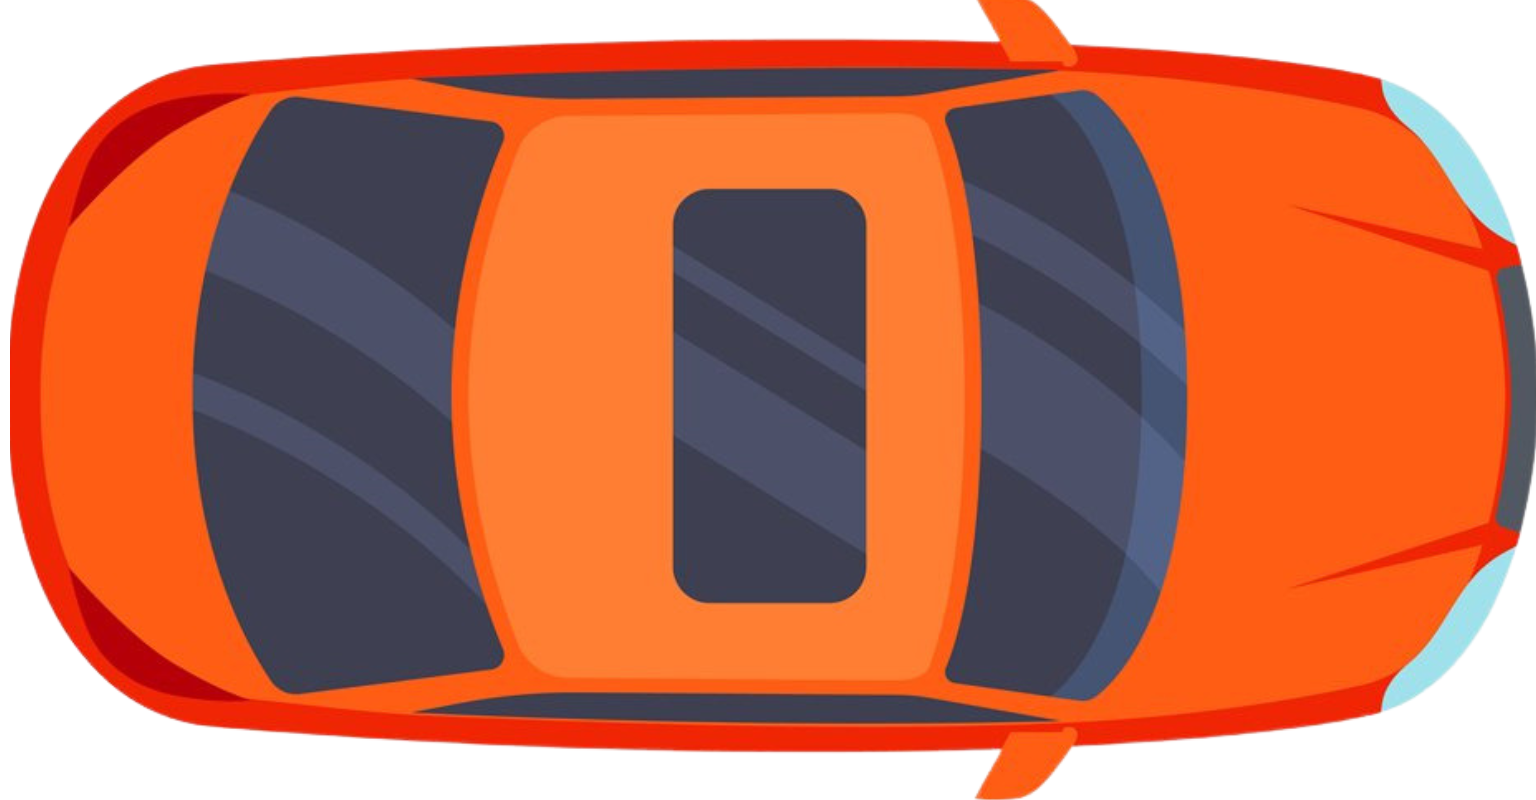
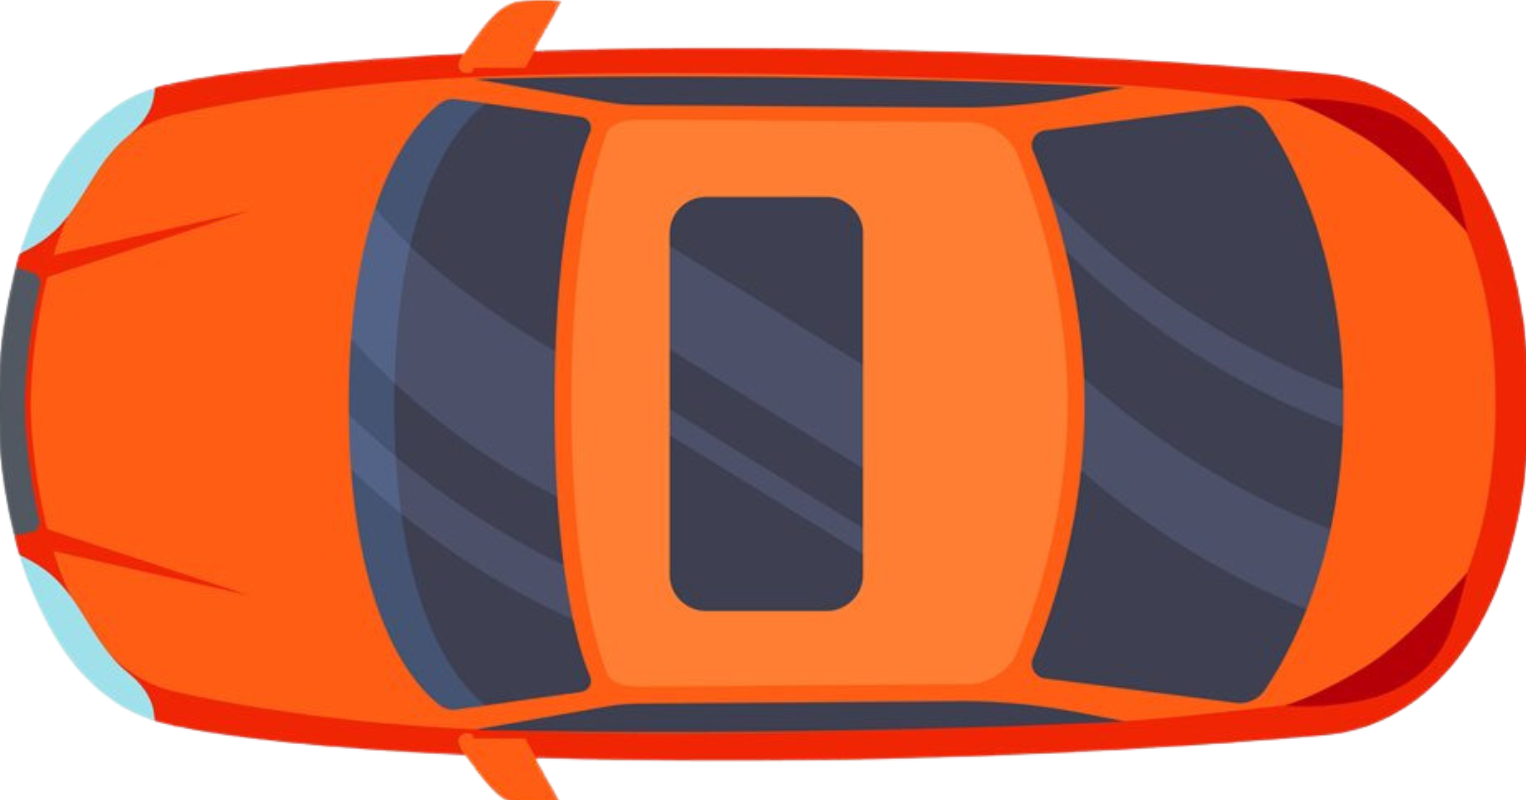
fix other car texture and rotation

diff --git a/core/Textures.py b/core/Textures.py
@@ -23,6 +23,8 @@ textureIdentifiers = [i for i in range(15)]
 
 
 def setupHelper(texture, textureIdentifier, width, height):
+    glEnable(GL_BLEND)  # FOR BLENDING
+    glBlendFunc(GL_SRC_ALPHA, GL_ONE_MINUS_SRC_ALPHA)  # FOR BLENDING
     glBindTexture(GL_TEXTURE_2D, textureIdentifier)
     glTexParameterf(GL_TEXTURE_2D, GL_TEXTURE_WRAP_S, GL_REPEAT)
     glTexParameterf(GL_TEXTURE_2D, GL_TEXTURE_WRAP_T, GL_REPEAT)
@@ -72,29 +74,46 @@ def drawHelper1 (textureIndex, left, right, top, bottom):
 
 def load_setup_textures():
     glEnable(GL_TEXTURE_2D)
-    glEnable(GL_BLEND)  # FOR BLENDING
-    glBlendFunc(GL_SRC_ALPHA, GL_ONE_MINUS_SRC_ALPHA)  # FOR BLENDING
+
     glGenTextures(len(textureIdentifiers), textureIdentifiers)
     # TODO: Load all textures here
 
-    loadHelper("FORSA-GAME/World Assets/porche_911.png", 1)
+    # انا مش شغال معايا غير كده directory
+    loadHelper("../World Assets/porche_911.png", 1)
+    loadHelper("../World Assets/world.png", 0)
 
-    loadHelper("FORSA-GAME/World Assets/world.png", 0)
-    loadHelper("FORSA-GAME/World Assets/car-blue.png", 2)
-    loadHelper("FORSA-GAME/World Assets/car-green.png", 3)
-    loadHelper("FORSA-GAME/World Assets/car-orange.png", 4)
-    loadHelper("FORSA-GAME/World Assets/car-pink.png", 5)
-    loadHelper("FORSA-GAME/World Assets/car-purple.png", 6)
-    loadHelper("FORSA-GAME/World Assets/car-red.png", 7)
-    loadHelper("FORSA-GAME/World Assets/car-yellow.png", 8)
-    loadHelper("FORSA-GAME/World Assets/car-blue.png", 9)
-    loadHelper("FORSA-GAME/World Assets/car-green.png", 11)
-    loadHelper("FORSA-GAME/World Assets/car-orange.png", 10)
-    loadHelper("FORSA-GAME/World Assets/car-red.png", 12)
-    loadHelper("FORSA-GAME/World Assets/car-purple.png", 13)
-    loadHelper("FORSA-GAME/World Assets/car-yellow.png", 14)
+    loadHelper("../World Assets/car-yellow.png", 2)
+    loadHelper("../World Assets/car-red.png", 3)
+    loadHelper("../World Assets/car-purple.png", 4)
+
+    loadHelper("../World Assets/car-purple-2.png", 5)
+    loadHelper("../World Assets/car-pink.png", 6)
+    loadHelper("../World Assets/car-orange.png", 7)
+
+    loadHelper("../World Assets/car-green.png", 8)
+    loadHelper("../World Assets/car-blue.png", 9)
+    loadHelper("../World Assets/car-red.png", 10)
+
+    loadHelper("../World Assets/car-purple-2.png", 11)
+    loadHelper("../World Assets/car-pink.png", 12)
+    loadHelper("../World Assets/car-orange.png", 13)
 
 
+    # loadHelper("FORSA-GAME/World Assets/porche_911.png", 1)
+    # loadHelper("FORSA-GAME/World Assets/world.png", 0)
+    # loadHelper("FORSA-GAME/World Assets/car-blue.png", 2)
+    # loadHelper("FORSA-GAME/World Assets/car-green.png", 3)
+    # loadHelper("FORSA-GAME/World Assets/car-orange.png", 4)
+    # loadHelper("FORSA-GAME/World Assets/car-pink.png", 5)
+    # loadHelper("FORSA-GAME/World Assets/car-purple.png", 6)
+    # loadHelper("FORSA-GAME/World Assets/car-red.png", 7)
+    # loadHelper("FORSA-GAME/World Assets/car-yellow.png", 8)
+    # loadHelper("FORSA-GAME/World Assets/car-blue.png", 9)
+    # loadHelper("FORSA-GAME/World Assets/car-green.png", 11)
+    # loadHelper("FORSA-GAME/World Assets/car-orange.png", 10)
+    # loadHelper("FORSA-GAME/World Assets/car-red.png", 12)
+    # loadHelper("FORSA-GAME/World Assets/car-purple.png", 13)
+    # loadHelper("FORSA-GAME/World Assets/car-yellow.png", 14)
 def drawTextures(color, world):
     # TODO: Draw all textures here [ WORLD , MAIN CAR , OTHER CARS(12)]
     glColor(color[0], color[1], color[2])

diff --git a/core/Rectangles.py b/core/Rectangles.py
@@ -1,36 +1,6 @@
 from OpenGL.GL import *
 from Textures import *
 
-class MainCar:
-    def __init__(self, x, y, trans_x, trans_y, theta, rgb):
-        self.x = x
-        self.y = y
-        self.right = trans_x + (x / 2)
-        self.left = trans_x - (x / 2)
-        self.top = trans_y + (y / 2)
-        self.bottom = trans_y - (y / 2)
-
-        glPushMatrix()
-        glTranslatef(trans_x, trans_y, 0)
-        glRotatef(theta, 0, 0, 1)
-
-        # Another draw-helper for the car
-        drawHelper1(1, -x/2, x/2, y/2, -y/2)
-        glPopMatrix()
-
-
-        glPushMatrix()
-        glTranslatef(trans_x, trans_y, 0)
-        glRotatef(theta, 0, 0, 1)
-        glBegin(GL_POLYGON)
-        glVertex3f(x/2, y/2, 0.5)
-        glVertex3f(x/2, -y/2, 0.5)
-        glVertex3f(-x/2, -y/2, 0.5)
-        glVertex3f(-x/2, y/2, 0.5)
-        glEnd()
-        glPopMatrix()
-
-
 
 class Rectangle:
     def __init__(self, width, height, x, y):
@@ -51,22 +21,49 @@ class Rectangle:
         glEnd()
 
 
+class MainCar:
+    def __init__(self, x, y, trans_x, trans_y, theta, rgb):
+        self.x = x
+        self.y = y
+        self.right = trans_x + (x / 2)
+        self.left = trans_x - (x / 2)
+        self.top = trans_y + (y / 2)
+        self.bottom = trans_y - (y / 2)
+
+        glPushMatrix()
+        glTranslatef(trans_x, trans_y, 0)
+        glRotatef(theta, 0, 0, 1)
+        # Another draw-helper for the car
+        drawHelper1(1, -x / 2, x / 2, y / 2, -y / 2)
+        glPopMatrix()
+
+        glPushMatrix()
+        glTranslatef(trans_x, trans_y, 0)
+        glRotatef(theta, 0, 0, 1)
+        glBegin(GL_POLYGON)
+        glVertex3f(x / 2, y / 2, 0.5)
+        glVertex3f(x / 2, -y / 2, 0.5)
+        glVertex3f(-x / 2, -y / 2, 0.5)
+        glVertex3f(-x / 2, y / 2, 0.5)
+        glEnd()
+        glPopMatrix()
+
+
 class Car_Model:
     def __init__(self, left, bottom, right, top, car_Direction, obstacle_speed):
         self.left = left
         self.bottom = bottom
         self.right = right
         self.top = top
-        self.car_Direction = car_Direction*obstacle_speed
+        self.car_Direction = car_Direction * obstacle_speed
 
-    def draw_texture(self, index):
-        drawHelper1(index, self.left, self.right, self.top, self.bottom)
-
+    def draw_texture(self, texture_index):
+        drawHelper1(texture_index, self.left, self.right, self.top, self.bottom)
 
     def draw_car(self):
-        glBegin(GL_QUADS)
-        glVertex(self.left, self.bottom, 0.4)
-        glVertex(self.right, self.bottom, 0.4)
-        glVertex(self.right, self.top, 0.4)
-        glVertex(self.left, self.top, 0.4)
+        glBegin(GL_POLYGON)
+        glVertex(self.left + 20, self.bottom + 20, 0.5)
+        glVertex(self.right - 20, self.bottom + 20, 0.5)
+        glVertex(self.right - 20, self.top - 20, 0.5)
+        glVertex(self.left + 20, self.top - 20, 0.5)
         glEnd()

diff --git a/core/main.py b/core/main.py
@@ -99,11 +99,12 @@ car_Obj_4_2 = Car_Model(1100, 650, 1180, 695, -9, obstacle_speed)
 # * ================================= Draw other cor state  ================================= * #
 
 def drawState(carObj, texture_index):
-    carObj.left = carObj.left + carObj.car_Direction
-    carObj.right = carObj.right + carObj.car_Direction
     glColor(1, 1, 1)  # White color
     carObj.draw_texture(texture_index)
     carObj.draw_car()
+
+    carObj.left = carObj.left + carObj.car_Direction
+    carObj.right = carObj.right + carObj.car_Direction
 
     if carObj.left >= WINDOW_WIDTH and carObj.car_Direction > 0:
         carObj.left = -80
@@ -120,7 +121,7 @@ def draw():
     global car_pos, car_angle, car_vel, keys_pressed, obstacle_speed
     glClearColor(0.0, 0.0, 0.0, 0.0)
     glClear(GL_COLOR_BUFFER_BIT | GL_DEPTH_BUFFER_BIT)
-
+    drawTextures((1, 1, 1), world)
     # * ========================= Draw cars ========================= * #
     obs_list = [car_Obj_1_0, car_Obj_1_1, car_Obj_1_2,
                 car_Obj_2_0, car_Obj_2_1, car_Obj_2_2,
@@ -129,7 +130,7 @@ def draw():
 
     j = 2
     for i in obs_list:
-        drawState(i, j)
+        drawState(i , j)
         obstacle_collision(i, car_pos, car_vel, car_angle, CAR_LENGTH, CAR_WIDTH)
         j += 1
 
@@ -161,7 +162,7 @@ def draw():
     # Collision detection to the side walls
     wall_collision(car_pos, car_vel, car_angle, CAR_LENGTH, CAR_WIDTH)
     arrival_line(car_pos, CAR_LENGTH)
-    drawTextures((1, 1, 1), world)
+
 
     car = MainCar(CAR_WIDTH, CAR_LENGTH,
                    car_pos[0], car_pos[1], car_angle[0], [0.6, 0.8, 0.5])
